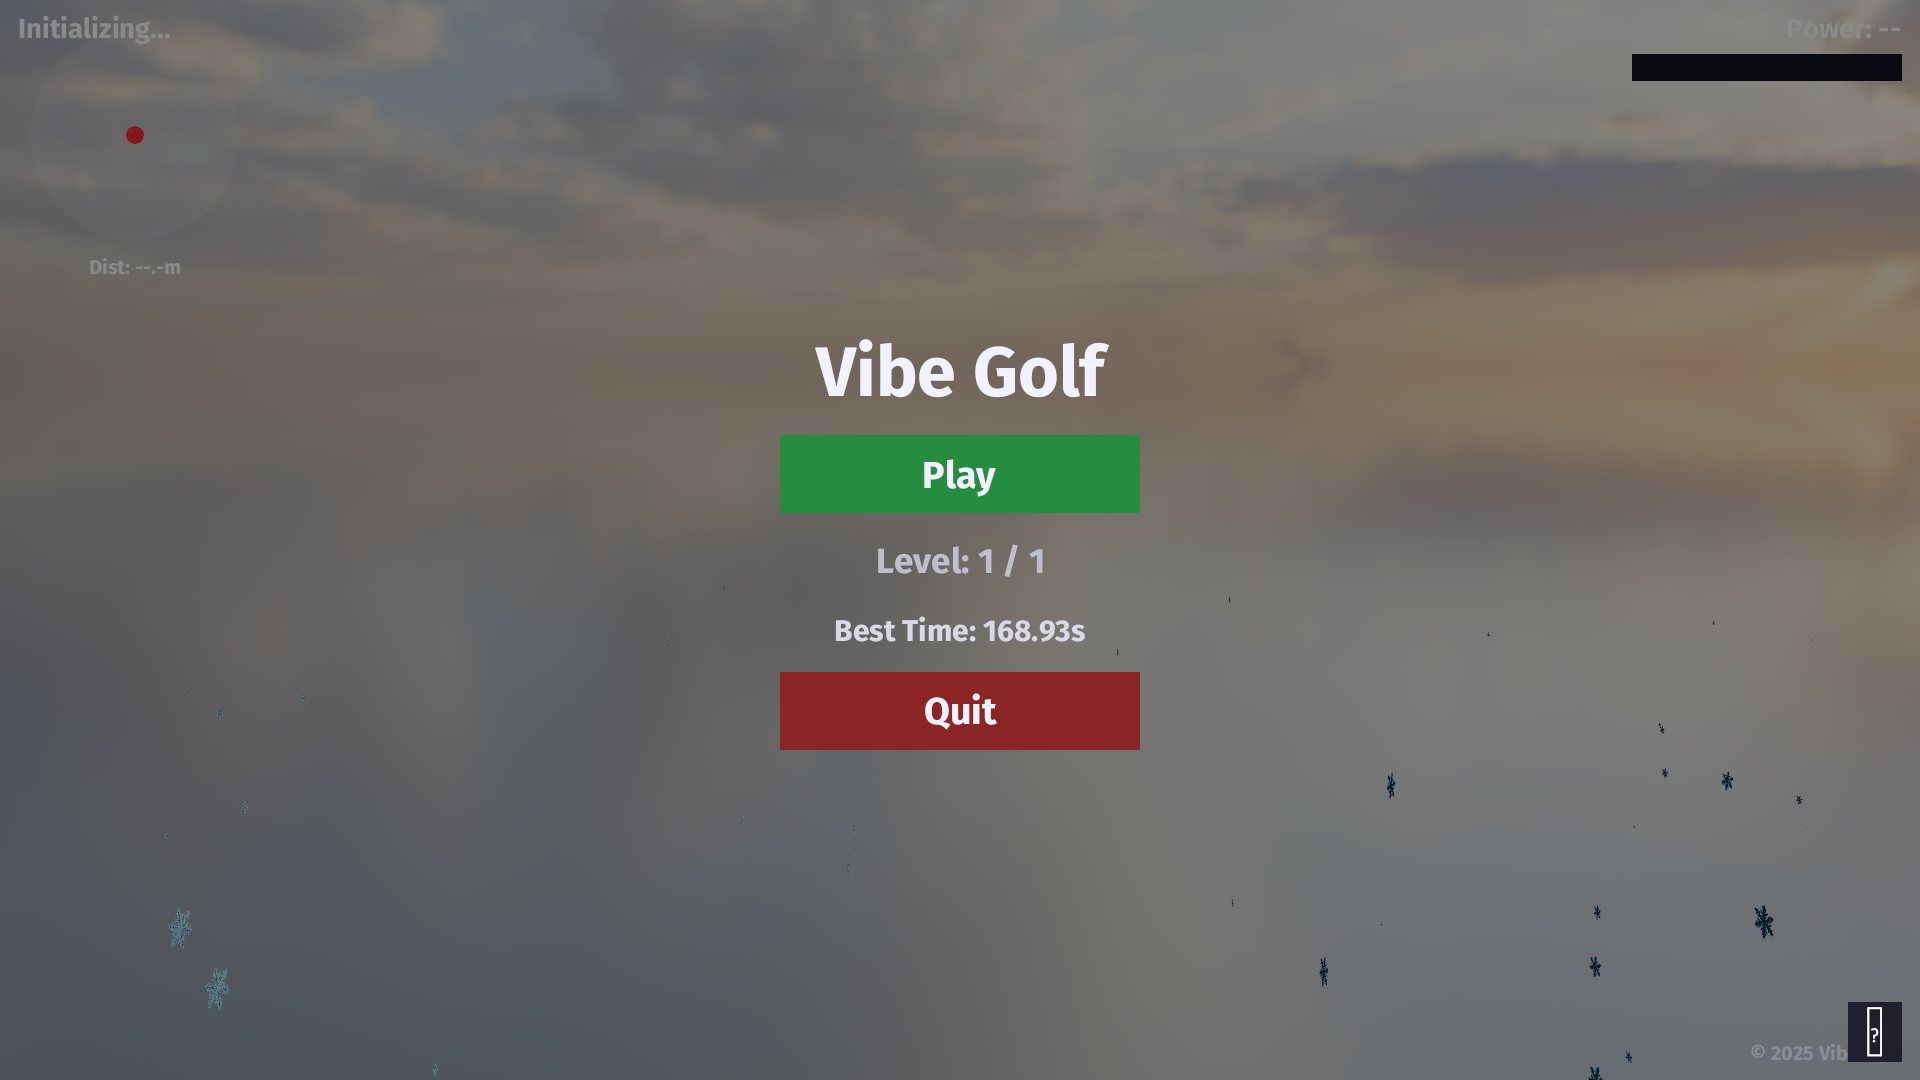
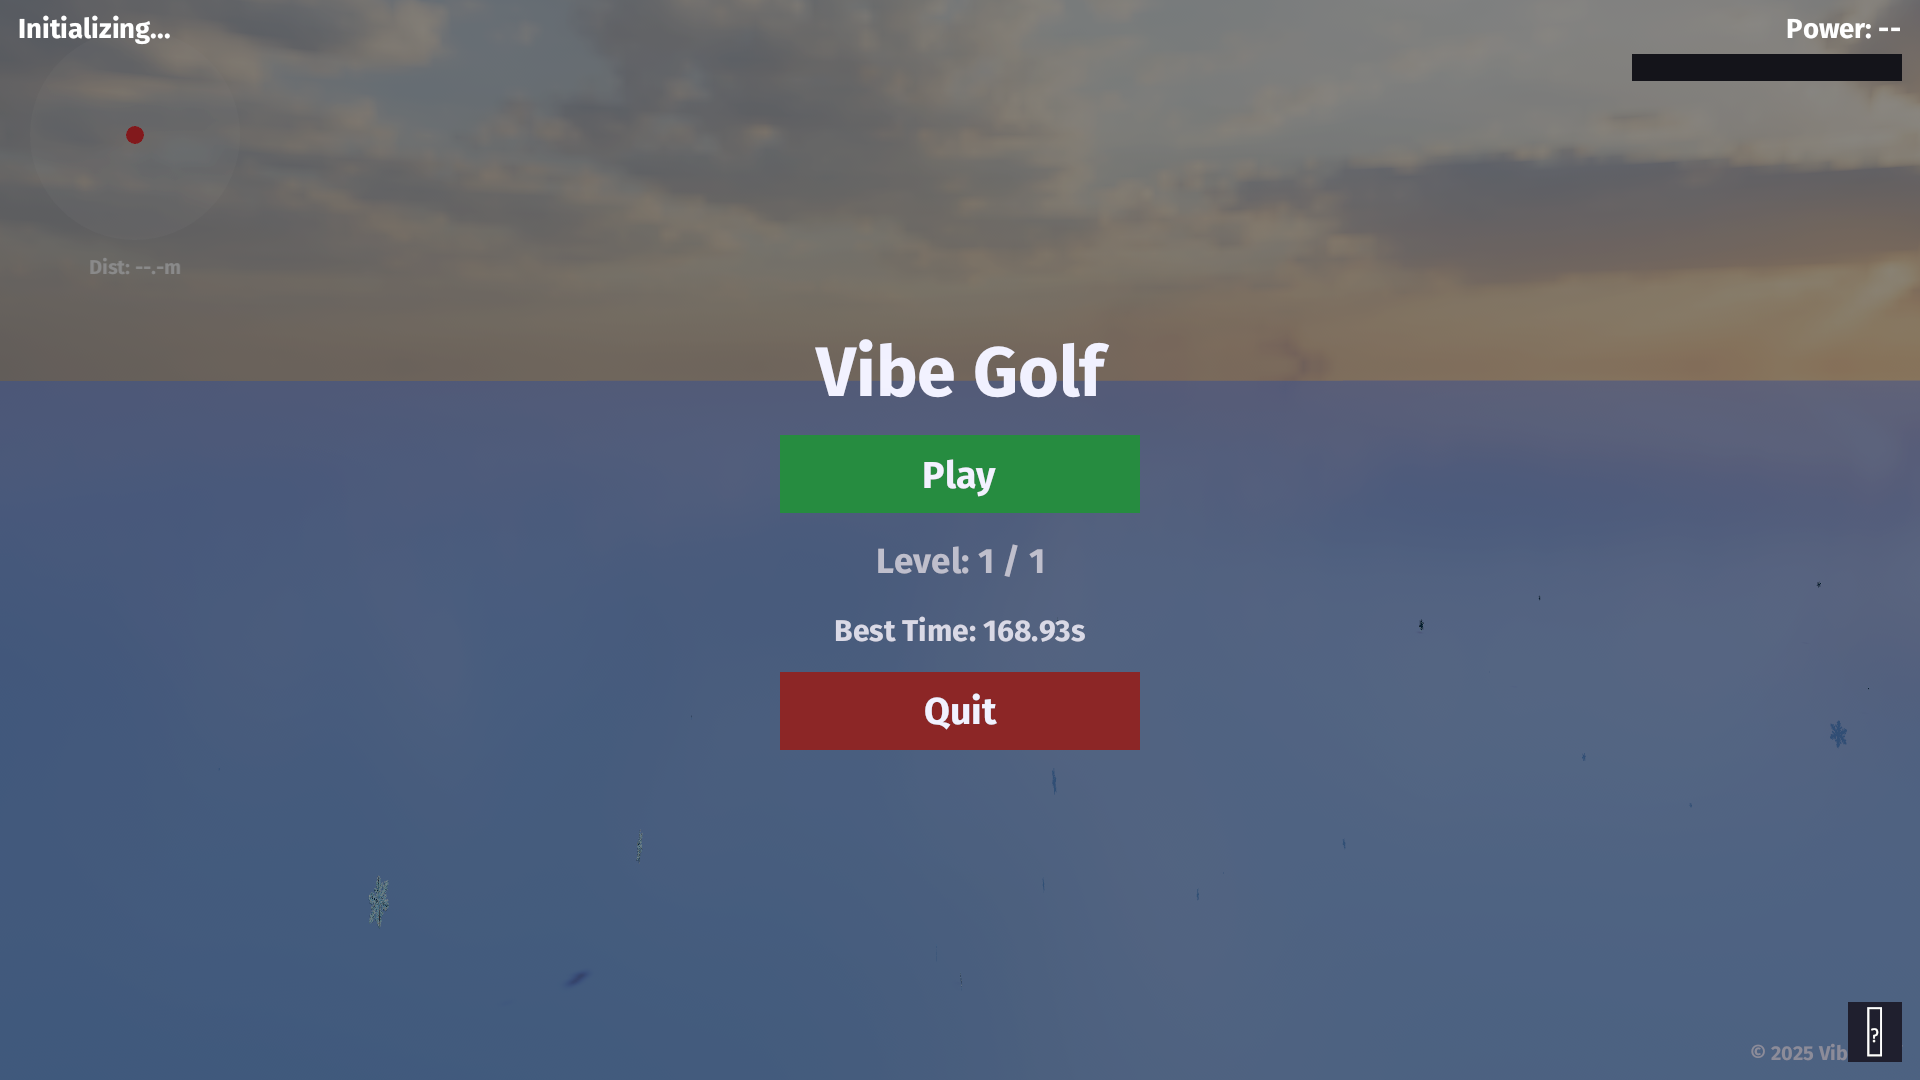
added ocean

diff --git a/src/plugins/terrain.rs b/src/plugins/terrain.rs
@@ -2,6 +2,7 @@ use bevy::prelude::*;
 use bevy_rapier3d::prelude::*;
 use bevy::render::mesh::PrimitiveTopology;
 use bevy::pbr::{ExtendedMaterial, StandardMaterial};
+use bevy::render::alpha::AlphaMode;
 use std::collections::{HashMap, HashSet};
 use bevy::tasks::{AsyncComputeTaskPool, Task};
 use futures_lite::future::{block_on, poll_once};
@@ -253,6 +254,7 @@ impl Plugin for TerrainPlugin {
             .insert_resource(LoadedChunks::default())
             .insert_resource(InProgressChunks::default())
             .insert_resource(TerrainGlobalMaterial::default())
+            .add_systems(Startup, spawn_water)
             .add_systems(
                 Update,
                 (
@@ -292,6 +294,48 @@ fn apply_terrain_config_changes(
 
 fn init_sampler(mut commands: Commands, cfg: Res<TerrainConfig>) {
     commands.insert_resource(TerrainSampler::new(cfg.clone()));
+}
+
+// Spawn a very large water plane at a fixed elevation (y = 25).
+fn spawn_water(
+    mut commands: Commands,
+    mut meshes: ResMut<Assets<Mesh>>,
+    mut materials: ResMut<Assets<StandardMaterial>>,
+) {
+    let size = 5000.0; // Large enough to appear "infinite" within gameplay area
+    // Manually build a large quad for water (since shape::Plane not available).
+    let half = size * 0.5;
+    let positions: Vec<[f32; 3]> = vec![
+        [-half, 0.0, -half],
+        [ half, 0.0, -half],
+        [-half, 0.0,  half],
+        [ half, 0.0,  half],
+    ];
+    let normals: Vec<[f32; 3]> = vec![[0.0, 1.0, 0.0]; 4];
+    let uvs: Vec<[f32; 2]> = vec![[0.0, 0.0],[1.0,0.0],[0.0,1.0],[1.0,1.0]];
+    let indices: Vec<u32> = vec![0,2,1, 1,2,3];
+
+    let mut water_mesh = Mesh::new(PrimitiveTopology::TriangleList, Default::default());
+    water_mesh.insert_attribute(Mesh::ATTRIBUTE_POSITION, positions);
+    water_mesh.insert_attribute(Mesh::ATTRIBUTE_NORMAL, normals);
+    water_mesh.insert_attribute(Mesh::ATTRIBUTE_UV_0, uvs);
+    water_mesh.insert_indices(bevy::render::mesh::Indices::U32(indices));
+
+    let mesh_handle = meshes.add(water_mesh);
+    let material = materials.add(StandardMaterial {
+        base_color: Color::srgba(0.05, 0.25, 0.6, 0.7),
+        perceptual_roughness: 0.05,
+        metallic: 0.0,
+        reflectance: 0.8,
+        alpha_mode: AlphaMode::Blend,
+        ..default()
+    });
+    commands.spawn(PbrBundle {
+        mesh: mesh_handle,
+        material,
+        transform: Transform::from_translation(Vec3::new(0.0, 25.0, 0.0)),
+        ..default()
+    });
 }
 
 fn update_terrain_chunks(
